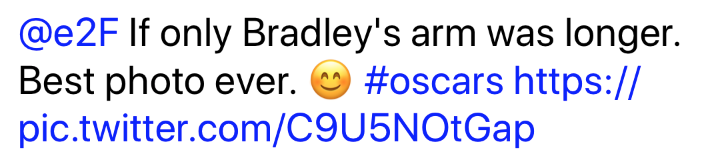
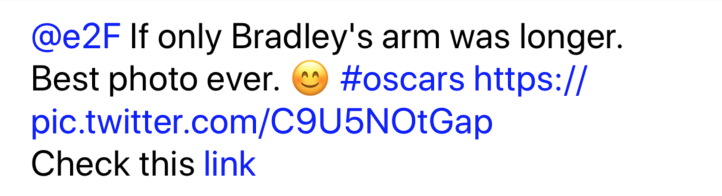
Improved example for AttributedLabel

Changed region(s): [[0.0308, 0.0915, 0.9552, 0.9146]]

diff --git a/Demo/AttributedLabelDemoViewController.swift b/Demo/AttributedLabelDemoViewController.swift
@@ -19,7 +19,7 @@ class AttributedLabelDemoViewController: UIViewController {
     }()
     
     private var tweets: [String] = [
-        "@e2F If only Bradley's arm was longer. Best photo ever. 😊 #oscars https://pic.twitter.com/C9U5NOtGap",
+        "@e2F If only Bradley's arm was longer. Best photo ever. 😊 #oscars https://pic.twitter.com/C9U5NOtGap<br>Check this <a href=\"https://github.com/psharanda/Atributika\">link</a>",
         "For every retweet this gets, Pedigree will donate one bowl of dog food to dogs in need! 😊 #tweetforbowls",
         "All the love as always. H",
         "We got kicked out of a @Delta airplane because I spoke Arabic to my mom on the phone and with my friend slim... WTFFFFFFFF please spread",
@@ -87,6 +87,10 @@ class TweetCell: UITableViewCell {
                 }
             case .link(let url):
                 UIApplication.shared.openURL(url)
+            case .tag(let tag):
+                if tag.name == "a", let href = tag.attributes["href"], let url = URL(string: href) {
+                    UIApplication.shared.openURL(url)
+                }
             default:
                 break
             }
@@ -111,11 +115,12 @@ class TweetCell: UITableViewCell {
     var tweet: String? {
         didSet {
             let all = Style.font(.systemFont(ofSize: 20))
-            let link = Style
+            let link = Style("a")
                 .foregroundColor(.blue, .normal)
                 .foregroundColor(.brown, .highlighted)
 
             tweetLabel.attributedText = tweet?
+                .style(tags: link)
                 .styleHashtags(link)
                 .styleMentions(link)
                 .styleLinks(link)

diff --git a/README.md b/README.md
@@ -126,11 +126,12 @@ let tweetLabel = AttributedLabel()
 tweetLabel.numberOfLines = 0
 
 let all = Style.font(.systemFont(ofSize: 20))
-let link = Style
+let link = Style("a")
     .foregroundColor(.blue, .normal)
     .foregroundColor(.brown, .highlighted) // <-- detections with this style will be clickable now
 
-tweetLabel.attributedText = "@e2F If only Bradley's arm was longer. Best photo ever. 😊 #oscars https://pic.twitter.com/C9U5NOtGap"
+tweetLabel.attributedText = ""@e2F If only Bradley's arm was longer. Best photo ever. 😊 #oscars https://pic.twitter.com/C9U5NOtGap<br>Check this <a href=\"https://github.com/psharanda/Atributika\">link</a>""
+    .style(tags: link)
     .styleHashtags(link)
     .styleMentions(link)
     .styleLinks(link)
@@ -148,6 +149,10 @@ tweetLabel.onClick = { label, detection in
                 }
             case .link(let url):
                 UIApplication.shared.openURL(url)
+            case .tag(let tag):
+                if tag.name == "a", let href = tag.attributes["href"], let url = URL(string: href) {
+                    UIApplication.shared.openURL(url)
+                }
             default:
                 break
             }
@@ -155,7 +160,7 @@ tweetLabel.onClick = { label, detection in
 
 view.addSubview(tweetLabel)
 ```
-<img src="https://raw.githubusercontent.com/psharanda/Atributika/master/README/test_attributedlabel.png" alt="" width="357" height="82" />
+<img src="https://raw.githubusercontent.com/psharanda/Atributika/master/README/test_attributedlabel.png" alt="" width="361" height="98" />
 
 ## Requirements
 
